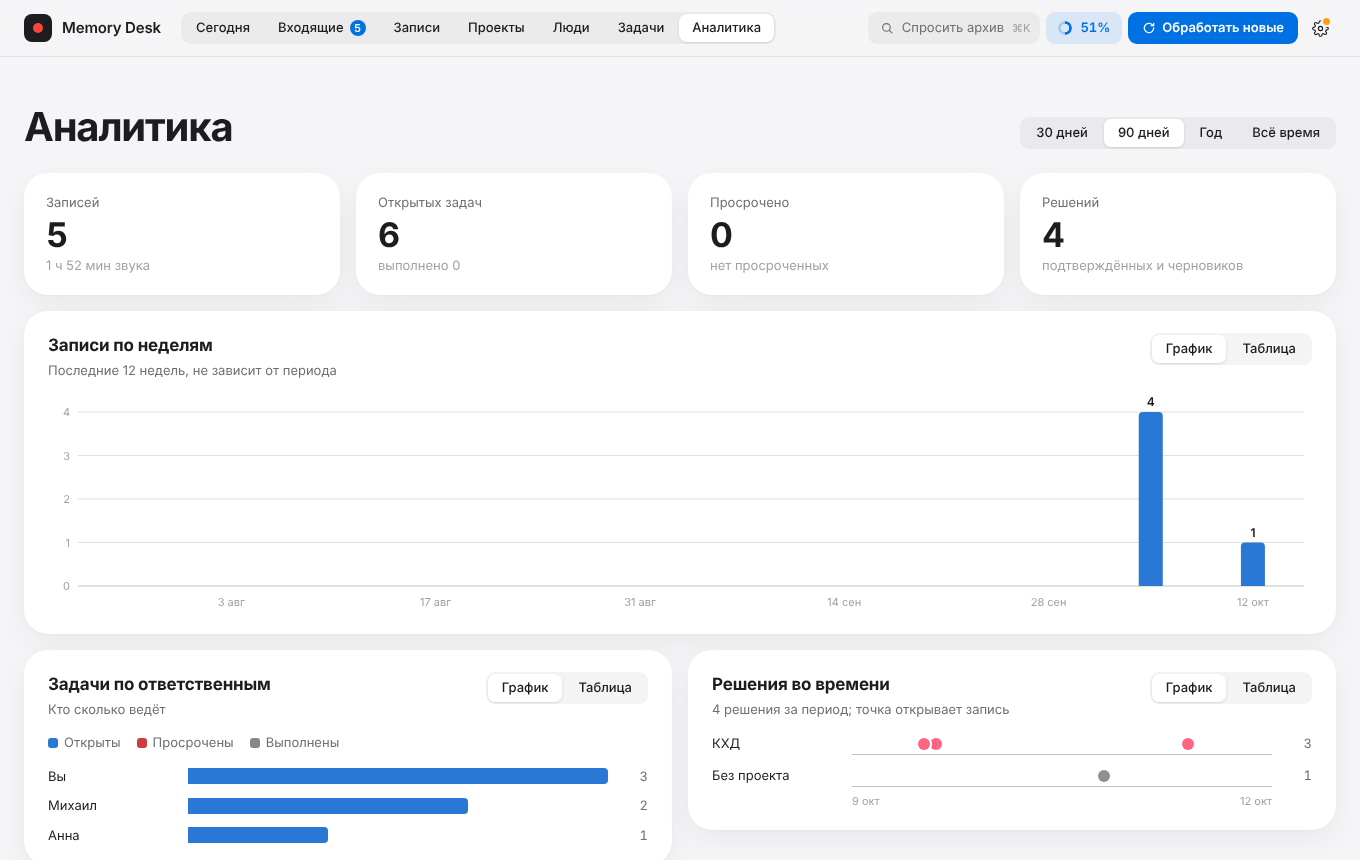
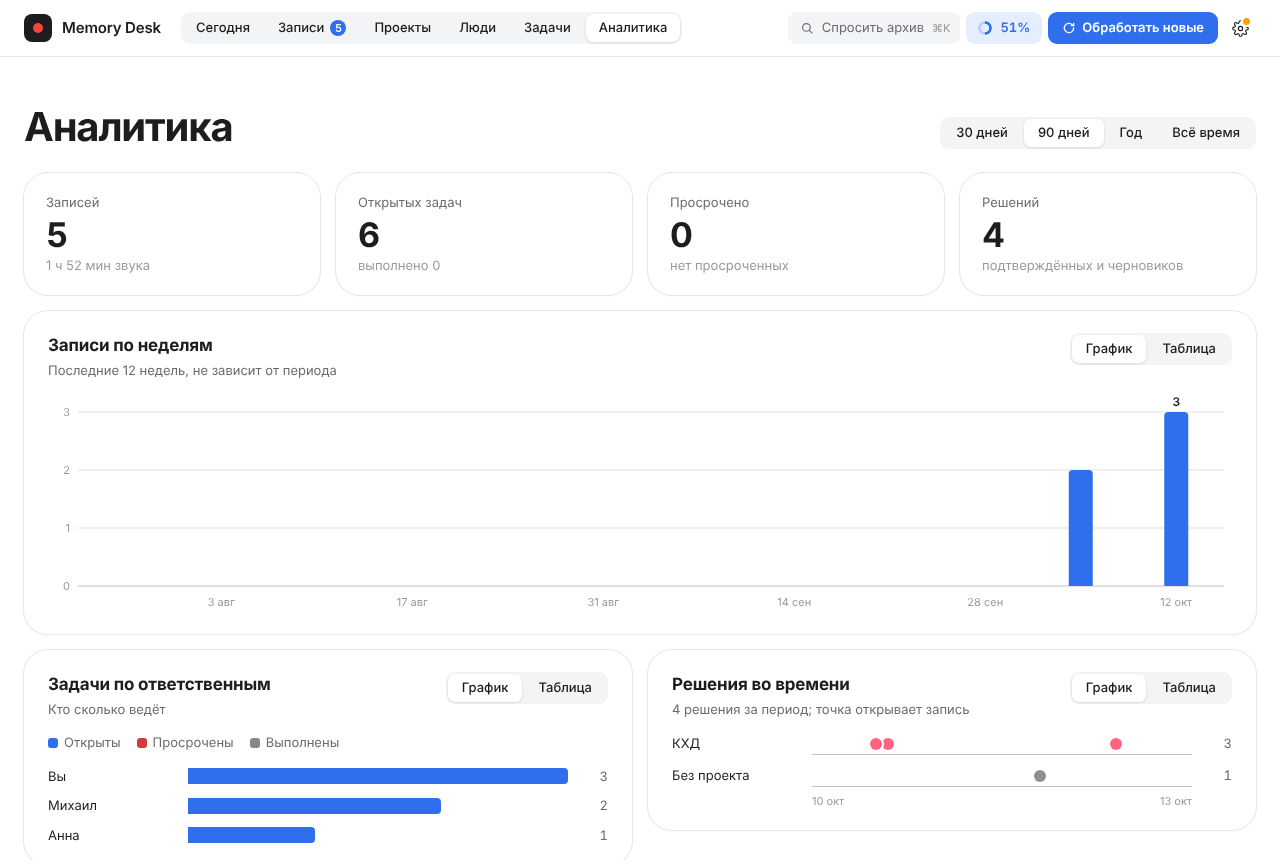
README и скриншоты обновлены: этапы 3–4, объединённые «Записи», новые снимки; текст ошибки чата без технических деталей

diff --git a/memory_desk/knowledge.py b/memory_desk/knowledge.py
@@ -900,7 +900,9 @@ def answer_question(question: str, sources: list[dict], mode: str = "") -> str:
             raw = json.load(response).get("response", "")
     except (urllib.error.URLError, TimeoutError, OSError) as exc:
         reason = getattr(exc, "reason", exc)
-        return f"Локальная модель Ollama недоступна: {reason}. Источники ниже найдены в архиве."
+        refused = isinstance(reason, ConnectionRefusedError) or "refused" in str(reason).lower()
+        why = "она не запущена" if refused else str(reason)
+        return f"Локальная модель Ollama сейчас недоступна ({why}). Источники ниже найдены в архиве."
     if "</think>" in raw:
         raw = raw.rsplit("</think>", 1)[-1]
     raw = re.sub(r"<think>.*?</think>", "", raw, flags=re.DOTALL | re.IGNORECASE)

diff --git a/README.md b/README.md
@@ -12,11 +12,14 @@
 
 ## Что это даёт
 
-- **Запись → готовая заметка без ручной работы.** Положили файл в папку — получили стенограмму с таймкодами, заголовок, краткое содержание, решения, задачи (с ответственным и сроком), риски и вопросы.
-- **Единый рабочий кабинет** вместо россыпи заметок: что решили, что в работе, что просрочено, что осталось без проекта.
-- **Вопросы по архиву** на обычном языке. Ответ строится только по вашим записям и содержит источники с таймкодами. Если подтверждения нет — чат так и скажет. Вопросы вида «что сделано по проекту X за месяц» дают сводку по всем записям периода.
-- **Материалы по запросу.** Протокол встречи, карта (mind map) и презентация `.pptx` по записи, проекту или человеку — собираются из извлечённых фактов и работают даже без модели.
-- **Obsidian остаётся читаемым архивом.** Заметки и стенограммы — обычные Markdown-файлы; SQLite хранит рабочие статусы, Qdrant — смысловой поиск.
+- **Запись → готовая заметка без ручной работы.** Положили файл в папку — получили стенограмму с таймкодами, заголовок, краткое содержание, решения, задачи (с ответственным и сроком), риски и вопросы. Структуру заметки задаёт шаблон: «Совещание с решениями», «Планёрка», «Встреча один на один», «Интервью», «Лекция»; свой шаблон можно составить по описанию.
+- **Один кабинет вместо россыпи заметок.** Утренняя сводка («что сегодня, что просрочено, что обещали вам»), реестр задач и решений с черновиками на подтверждение, зависшие задачи, серии повторяющихся встреч, предупреждение, когда новое решение расходится со старым.
+- **Несколько взглядов на одну запись.** К заметке добавляются «Только решения», «Задачи по людям», «Вопросы к заказчику», «Риски», «Для руководителя на 5 строк» или свой взгляд. Основной текст они не меняют.
+- **Закладки.** Клавиша B на плеере ставит цветную отметку с комментарием; закладки лежат в самой заметке и находятся поиском.
+- **Вопросы по архиву** на обычном языке. Ответ строится только по вашим записям и содержит источники с таймкодами; под ответом подсказки, что спросить дальше, и кнопка «Сохранить в Obsidian». Если подтверждения нет — чат так и скажет. Вопросы вида «что сделано по проекту X за месяц» дают сводку по всем записям периода.
+- **Материалы по запросу.** Протокол встречи, карта (mind map) и презентация `.pptx` по записи, проекту или человеку собираются из извлечённых фактов и работают даже без модели.
+- **Экспорт.** Протокол и ответ чата — в PDF, Word, HTML и Markdown; карта — в PNG, SVG и OPML (для XMind, MindNode, OmniOutliner). Кириллица в PDF не зависит от шрифтов системы.
+- **Obsidian остаётся читаемым архивом.** Заметки и стенограммы — обычные Markdown-файлы; SQLite хранит рабочие статусы, Qdrant — смысловой поиск. Закладки и взгляды живут в заметке и переживают потерю базы.
 - **Полностью локально.** Нет облачных API, нет учётных записей, сервер слушает только `127.0.0.1`.
 
 Подробный перечень возможностей по экранам — в [docs/FEATURES.md](docs/FEATURES.md), устройство системы — в [docs/ARCHITECTURE.md](docs/ARCHITECTURE.md).
@@ -96,8 +99,8 @@ chmod +x *.command meeting-assistant meetings-process
 
 1. Положите аудиофайлы в выбранную папку записей (или включите автообработку в настройках).
 2. Запустите `start.command` — откроется кабинет на `http://127.0.0.1:8502`.
-3. Нажмите «Обработать новые». Прогресс (12 этапов, процент, оставшееся время) идёт в реальном времени.
-4. Разберите «Входящие»: назначьте проект, тип и участников, подтвердите найденные решения и задачи, опубликуйте запись в Obsidian.
+3. Нажмите «Обработать новые» (для каждого файла в очереди можно выбрать шаблон заметки). Прогресс (12 этапов, процент, оставшееся время) идёт в реальном времени.
+4. Откройте готовую запись в «Записях»: назначьте проект, тип и участников, подтвердите найденные решения и задачи, опубликуйте её в Obsidian. Пока файлы ждут обработки, они стоят блоком «Новые и в обработке» вверху того же экрана; шаблон заметки выбирается там же.
 5. Задавайте вопросы по архиву: `⌘K`.
 
 Поддерживаются MP3, WAV, M4A, AAC, FLAC, OGG, MP4. Дубликаты определяются по SHA-256. При сбое стенограмма и промежуточные результаты сохраняются, обработка продолжится с готового этапа.
@@ -106,11 +109,16 @@ chmod +x *.command meeting-assistant meetings-process
 
 | | |
 | --- | --- |
-| ![Входящие](docs/img/inbox.png) **Очередь обработки** (блок вверху «Записей») | ![Запись](docs/img/record.png) **Запись** — плеер, стенограмма, решения и задачи |
-| ![Задачи](docs/img/tasks.png) **Задачи** — реестр и черновики | ![Аналитика](docs/img/analytics.png) **Аналитика** — динамика и сроки |
-| ![Проекты](docs/img/projects.png) **Проекты** — кнопки «Презентация» и «Карта» | ![Чат](docs/img/chat.png) **Спросить архив** — сводка по проекту за период (на снимке Ollama отключена: «режим без модели») |
-| ![Календарь](docs/img/calendar.png) **Календарь** — события и записи за любой диапазон | ![Дерево решений](docs/img/decision-tree.png) **Дерево решений** — действующие и заменённые |
-| ![Протокол](docs/img/protocol.png) **Протокол** — по записи, с правкой и сохранением в Obsidian | ![Презентация](docs/img/deck.png) **Презентация** — слайд «Главное» из `.pptx` |
+| ![Сегодня](docs/img/today.png) **Сегодня** — утренняя сводка, последняя запись, задачи | ![Записи](docs/img/records.png) **Записи** — очередь обработки вверху, ниже список с фильтрами |
+| ![Запись](docs/img/record.png) **Запись** — плеер, закладки, стенограмма, решения и задачи | ![Взгляды](docs/img/views.png) **Взгляды** — разделы заметки с другим фокусом |
+| ![Чат](docs/img/chat.png) **Спросить архив** — ответ с источниками, подсказки, сохранение в Obsidian | ![Задачи](docs/img/tasks.png) **Решения и задачи** — реестр, черновики на подтверждение |
+| ![Проекты](docs/img/projects.png) **Проекты** — метрики, «Презентация», «Карта», подготовка к встрече | ![Аналитика](docs/img/analytics.png) **Аналитика** — динамика, сроки, связи людей и проектов |
+| ![Дерево решений](docs/img/decision-tree.png) **Дерево решений** — действующие и заменённые | ![Календарь](docs/img/calendar.png) **Календарь** — события и записи за любой диапазон |
+| ![Протокол](docs/img/protocol.png) **Протокол** — с правкой и сохранением в Obsidian | ![Экспорт](docs/img/export.png) **Экспорт** — PDF, Word, HTML, Markdown |
+| ![Карта](docs/img/map.png) **Карта** — дерево встречи; PNG, SVG, OPML | ![Презентация](docs/img/deck.png) **Презентация** — `.pptx` по проекту или человеку |
+| ![Тёмная тема](docs/img/dark.png) **Темы** — пять палитр, у каждой светлый и тёмный режим | ![Карта в PNG](docs/img/map-export.png) **Карта как PNG** — то, что получается при выгрузке |
+
+> Снимки сделаны на вымышленных данных. Ответ в чате на снимке написан заглушкой вместо модели, чтобы показать вид ответа: настоящую `qwen3:4b` в среде разработки запустить нельзя.
 
 ## Данные и конфиденциальность
 
@@ -136,7 +144,7 @@ chmod +x *.command meeting-assistant meetings-process
 
 ```bash
 # окружение для разработки и тестов
-python3.12 -m venv .venv && .venv/bin/pip install -r requirements.txt pytest httpx
+python3.12 -m venv .venv && .venv/bin/pip install -r requirements.txt pytest httpx pypdf
 
 # сервер (порт 8502)
 .venv/bin/python -m memory_desk
@@ -174,12 +182,22 @@ install.command    установщик; start.command — запуск каби
 
 ## Что проверено
 
-- **Автоматически** (`pytest`): API и защита, фильтры и поиск, карточка записи, публикация, задачи и решения, аналитика, сводки в чате, протокол, карта и презентация, дерево решений, календарь с диапазоном, «главное к встрече», ограничения ввода, переиндексация, устойчивость заметок к «враждебным» правкам, подменённые EventKit и кодировщик голосов, сценарии установщика на заглушках.
-- **В браузере** (Chromium, вымышленные данные): все экраны в светлой и тёмной теме на трёх ширинах, нагрузочный набор из ~55 записей без ошибок JavaScript и без ответов 500.
+- **Автоматически** (`pytest`, 193 теста): API и защита, фильтры и поиск, карточка записи, публикация, задачи и решения, аналитика, сводки в чате, протокол, карта и презентация, дерево решений, календарь, утренняя сводка, зависшие задачи и серии, шаблоны заметки и их откат, взгляды, закладки, подсказки вопросов, экспорт (PDF, DOCX, HTML, Markdown, PNG, SVG, OPML), устойчивость заметок к «враждебным» правкам, подменённые EventKit и кодировщик голосов, сценарии установщика на заглушках.
+- **В браузере** (Chromium, вымышленные данные): все экраны в светлой и тёмной теме, нагрузочный набор из ~55 записей без ошибок JavaScript и без ответов 500; PDF, DOCX и картинки карты просмотрены глазами (DOCX открыт в LibreOffice).
 
-**Не проверено на реальном железе** (среда разработки без Apple Silicon): расшифровка MLX Whisper и анализ Ollama через новый интерфейс, качество ответов и сводок `qwen3:4b`, загрузка настоящей модели эмбеддингов, чтение Календаря и Напоминаний через EventKit, модель голосов ECAPA и подобранный порог сходства, работа фильтра Whisper на реальной музыке и шуме, установка на «чистый» Mac. Первый запуск стоит пройти на одном коротком файле.
+**Не проверено на реальном железе** (среда разработки без Apple Silicon): расшифровка MLX Whisper и анализ Ollama через новый интерфейс, качество ответов и сводок `qwen3:4b` (в частности, как малая модель держит шаблоны, взгляды и таймкоды), загрузка настоящей модели эмбеддингов, чтение Календаря и Напоминаний через EventKit, модель голосов ECAPA и порог сходства, работа фильтра Whisper на реальной музыке и шуме, открытие DOCX в Word и Pages, установка на «чистый» Mac. Первый запуск стоит пройти на одном коротком файле.
 
-Полный список ограничений — в [docs/STATUS.md](docs/STATUS.md), планы — в [docs/ROADMAP.md](docs/ROADMAP.md).
+Полный список ограничений — в [docs/STATUS.md](docs/STATUS.md).
+
+## Что дальше
+
+Подробный план с критериями готовности — в [docs/ROADMAP.md](docs/ROADMAP.md). Ближайшее:
+
+- карточки людей и проектов как страницы-досье: цифры, действующие договорённости, зависшие вопросы, динамика;
+- артефакты по записи: служебная записка, бриф, черновик письма с таймкодами; недельный дайджест по проектам;
+- вложения и распознавание текста на фото и слайдах; журнал действий, PIN, «стереть запись целиком»;
+- предложения действий после встречи (всё через подтверждение), локальный MCP-сервер и командная строка;
+- языки интерфейса; **приложение для macOS** (окно, значок в строке меню, быстрые команды, чтение с телефона по домашней сети) — последним, после перечисленного.
 
 ## Лицензия
 

diff --git a/docs/FEATURES.md b/docs/FEATURES.md
@@ -12,10 +12,6 @@
 
 **Взгляды на запись.** Во вкладке «Взгляды» к записи добавляются разделы заметки с другим фокусом: «Только решения», «Задачи по людям», «Вопросы к заказчику», «Риски», «Для руководителя на 5 строк» или свой (название и описание фокуса). Основное краткое содержание не меняется, взгляд строится заново по стенограмме с таймкодами и датой/моделью в подписи. Удаление и добавление не затрагивают остальную заметку; пересчёт раздела, который вы правили вручную, спрашивает подтверждения. Взгляды ищутся и доступны в чате, переживают пересборку по другому шаблону; до 8 на запись.
 
-**Один раздел «Записи».** Новые файлы и обработка стоят блоком «Новые и в обработке» над списком записей: шаблон для каждого файла, ход работы, ошибки с «Повторить». Когда файлов нет, блока нет; счётчик ожидающих — на вкладке «Записи».
-
-**Карта как картинка.** Карту встречи или проекта можно скачать как PNG (от 2000 px), SVG или OPML для XMind, MindNode и OmniOutliner.
-
 **Экспорт документов.** Протокол, карту и ответ чата можно скачать как PDF, Word (.docx), HTML или Markdown. PDF и Word — с настоящими заголовками, таблицами и списками, номерами страниц; HTML открывается без интернета. Правки, сделанные в окне материала, попадают в файл.
 
 **Закладки.** Кнопка «Закладка» или клавиша B ставят отметку на текущем месте записи; у закладки комментарий и цвет, по клику — переход к месту. Хранятся в заметке Obsidian разделом «Закладки», поэтому переживают потерю базы, переиндексацию и пересборку заметки; попадают в поиск, подготовку к встрече и протокол.
@@ -43,10 +39,9 @@
 ### Сегодня
 Следующая встреча (из Календаря macOS или ICS-файла/ссылки) либо последняя запись. Для предстоящей встречи — «подготовка к встрече»: что решали и что осталось открытым по связанным записям. Три колонки: «Что решили», «Открытые задачи», «Открытые вопросы». Новые записи, задачи, решения за неделю, записи без проекта, строка текущей обработки. **Срок задачи** ставится прямо на месте: быстрые кнопки «Сегодня / Завтра / Через неделю», выбор даты, «Без срока». Кнопка «Календарь» вверху открывает экран календаря. «Подготовка к встрече» начинается с абзаца **«Главное к встрече»**: локальная модель за одно-два предложения называет самое важное (просроченное, нерешённые вопросы, последние решения) по тезисам ниже; тезисы показываются сразу, абзац уточняется модели, а без Ollama остаётся строка из цифр. Решения, отмеченные как заменённые, в «Сегодня» и в подготовке не показываются.
 
-### Входящие
-Очередь обработки с 12 сегментами, журналом, отменой, повтором и скрытием. Записи, требующие проверки: выбор проекта и типа, участников, публикация в Obsidian. «Опубликовано» означает проверенную запись с проектом и типом.
-
 ### Записи
+Вверху экрана блок «Новые и в обработке» (виден, пока есть файлы): очередь с 12 сегментами, шаблоном для каждого файла, журналом, отменой, повтором и скрытием. Записи, требующие проверки: выбор проекта и типа, участников, публикация в Obsidian; «Опубликовано» означает проверенную запись с проектом и типом.
+
 Фильтры (проект, человек, тип, статус, период) и поиск по тексту; состояние сохраняется в адресе страницы. Карточка записи:
 - настоящий аудиоплеер с перемоткой по Range-запросам и формой волны;
 - стенограмма с подсветкой текущей реплики и переходом по таймкодам;
@@ -105,7 +100,7 @@
 Собираются из уже извлечённых фактов — краткого содержания, решений, задач со статусами, рисков, вопросов — поэтому работают и без модели. Локальная модель, если она доступна, добавляет связный текст; без неё материал остаётся полным.
 
 - **Протокол встречи** (кнопка «Протокол» в записи или «составь протокол» в чате): шапка (дата, длительность, проект, участники), повестка и темы, ход обсуждения (абзац модели либо пункты резюме), решения, таблица поручений (кто, срок, статус), риски и открытые вопросы. Текст можно править в окне, копировать, скачать `.md` или сохранить в Obsidian в папку «Протоколы» рабочей папки.
-- **Карта** (по записи, проекту или человеку): дерево «встреча → решения / задачи / риски / вопросы». Показывается деревом, копируется как схема Mermaid, сохраняется в Obsidian в папку «Карты» (схема рисуется в режиме чтения).
+- **Карта** (по записи, проекту или человеку): дерево «встреча → решения / задачи / риски / вопросы». Показывается деревом, копируется как схема Mermaid, сохраняется в Obsidian в папку «Карты» (схема рисуется в режиме чтения), скачивается как PNG (от 2000 px), SVG или OPML.
 - **Презентация `.pptx`** (кнопка «Презентация» у проекта или человека или «сделай презентацию по проекту X за месяц» в чате): 16:9, титульный слайд с периодом и цифрами, «Главное» (пишет модель, без неё — цифры и свежие резюме), решения, задачи в работе (таблица с ответственным и сроком), выполненное, риски, вопросы, хронология встреч; длинные списки переносятся на следующие слайды. Файл скачивается и остаётся в папке `presentations` кабинета.
 
 Период — 30 дней, 90 дней, год, всё время или любой диапазон дат. В чате материал создаётся по фразе с глаголом («сделай», «составь», «построй», «подготовь») и словом «презентация», «протокол» или «карта»; проект, человек и период берутся из текста вопроса или выбранной области.
